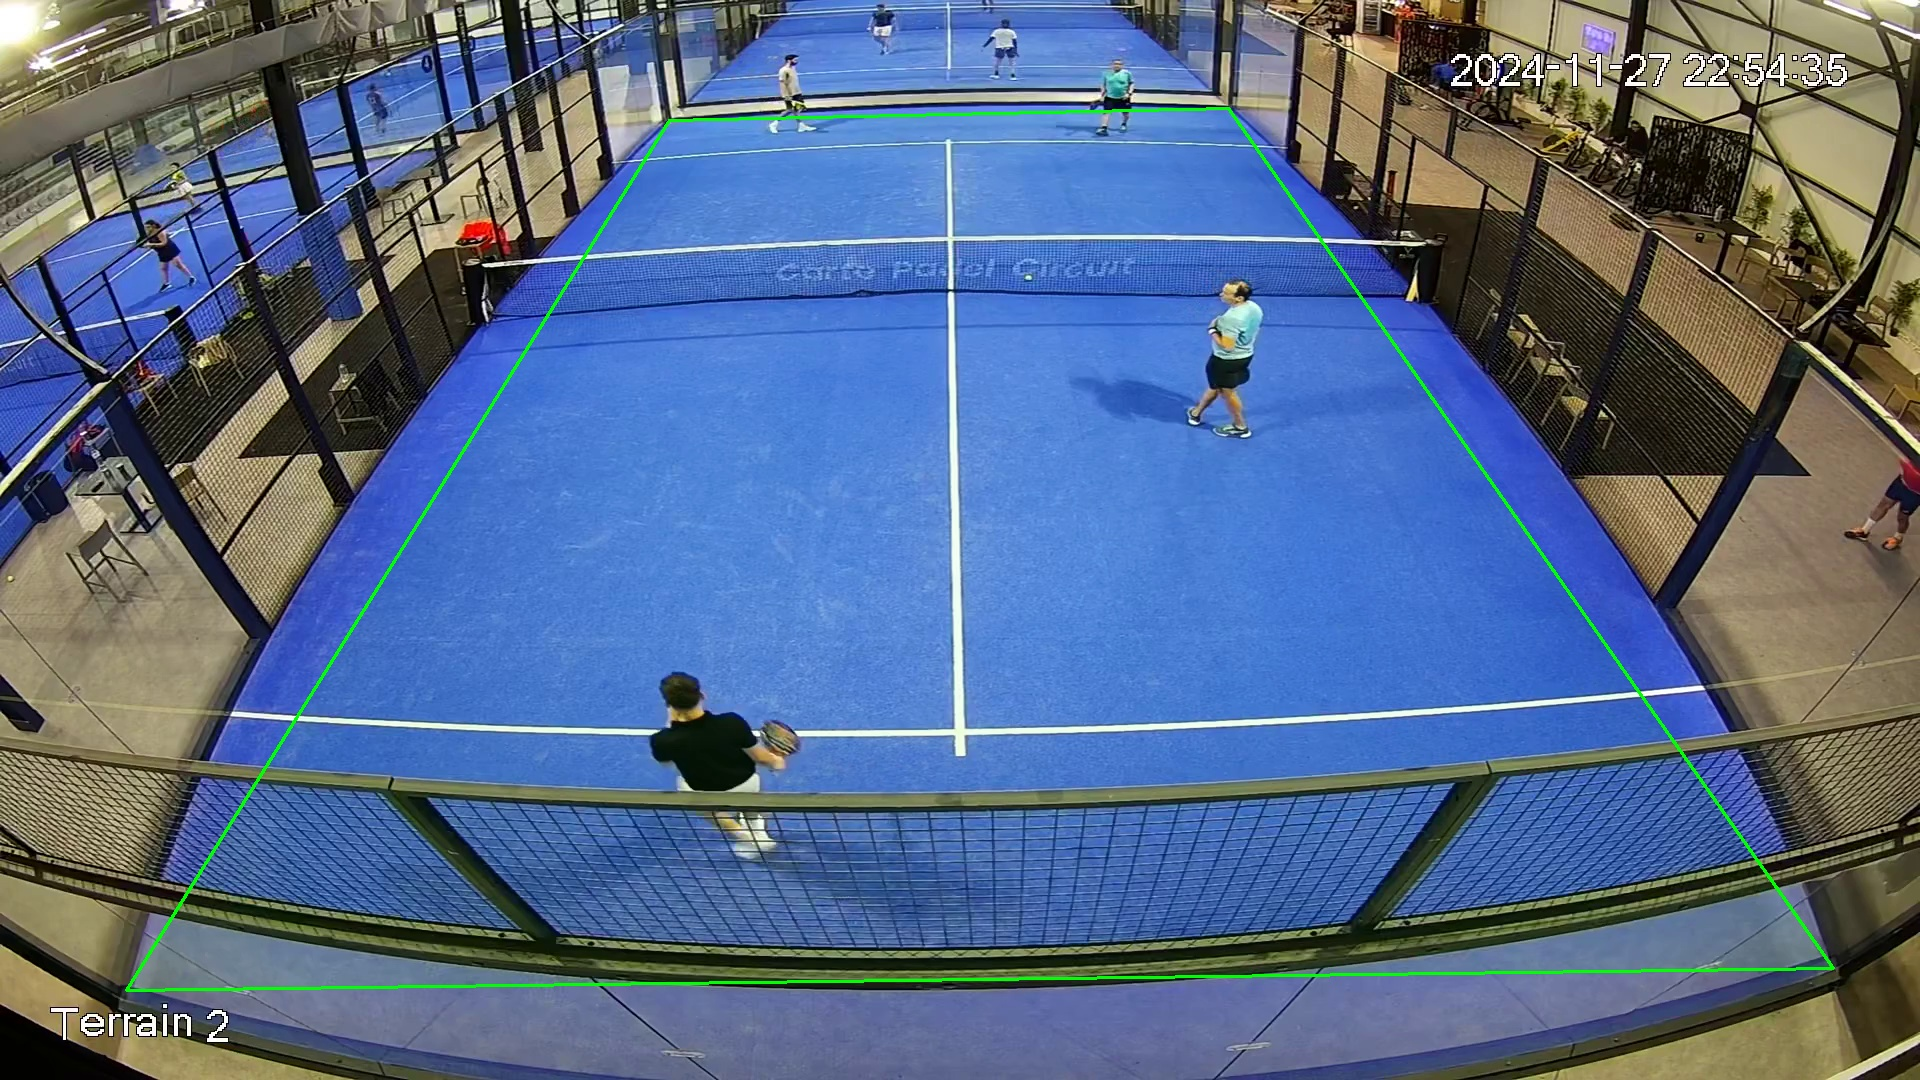
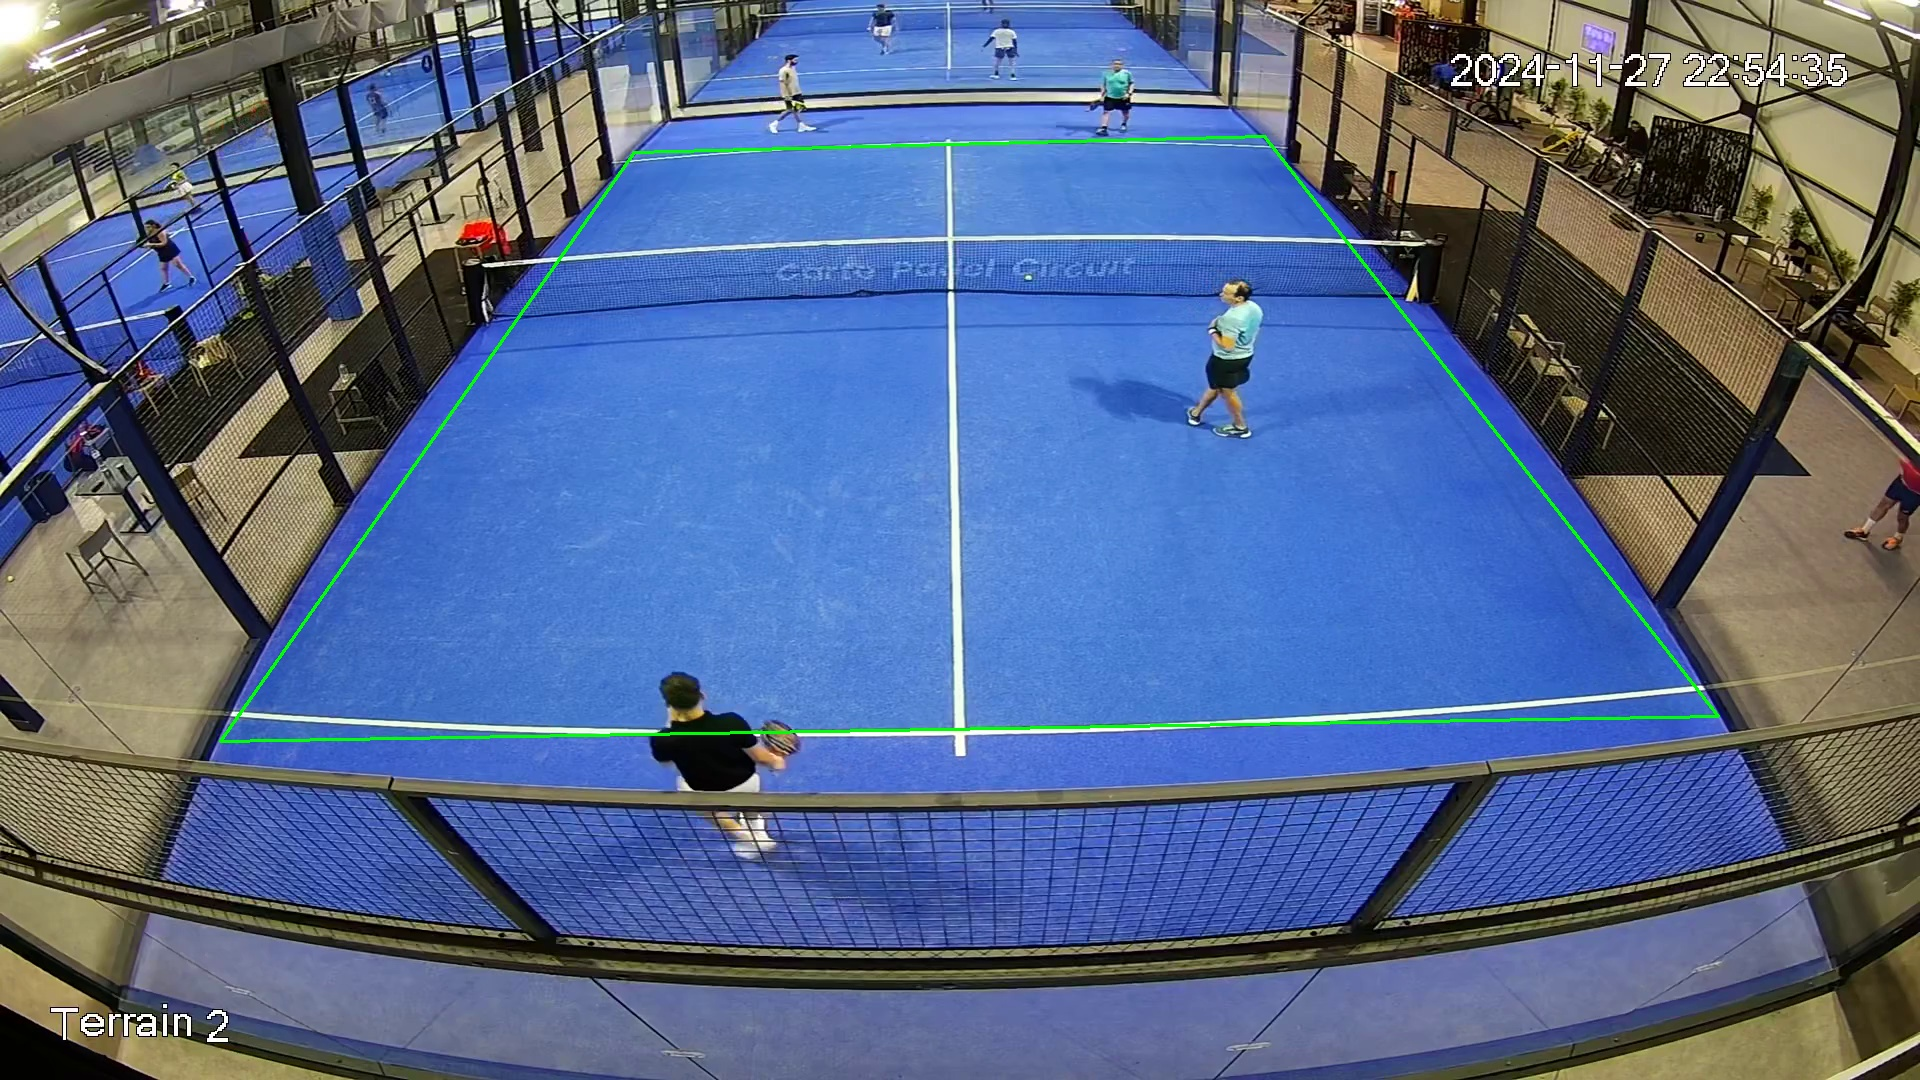
boundry_update : setting the boundry of the court at exactly the white line

diff --git a/utils/court_mapper.py b/utils/court_mapper.py
@@ -1,5 +1,7 @@
 import cv2
 import numpy as np
+import json
+import os
 
 
 class CourtMapper:
@@ -8,6 +10,21 @@ class CourtMapper:
         self.homography_matrix = None
         self.clicked_points = []
         self.output_size = (400, 800)
+        self.save_path = "output/court_points.json"
+
+    def load_if_exists(self):
+        if os.path.exists(self.save_path):
+            with open(self.save_path, "r") as f:
+                self.clicked_points = json.load(f)
+            self.court_polygon = np.array(self.clicked_points, dtype=np.int32)
+            print(f"loaded court points: {self.clicked_points}")
+            return True
+        return False
+
+    def save_points(self):
+        with open(self.save_path, "w") as f:
+            json.dump(self.clicked_points, f)
+        print(f"court points saved to {self.save_path}")
 
     def define_court_manually(self, frame):
         print("click 4 corners: top-left, top-right, bottom-right, bottom-left. press Q when done")
@@ -34,6 +51,7 @@ class CourtMapper:
 
         cv2.destroyAllWindows()
         self.court_polygon = np.array(self.clicked_points, dtype=np.int32)
+        self.save_points()
         return self.clicked_points
 
     def build_homography(self):
@@ -67,4 +85,3 @@ class CourtMapper:
         cv2.polylines(frame, [self.court_polygon], True, (0, 255, 0), 2)
         return frame
     
-
